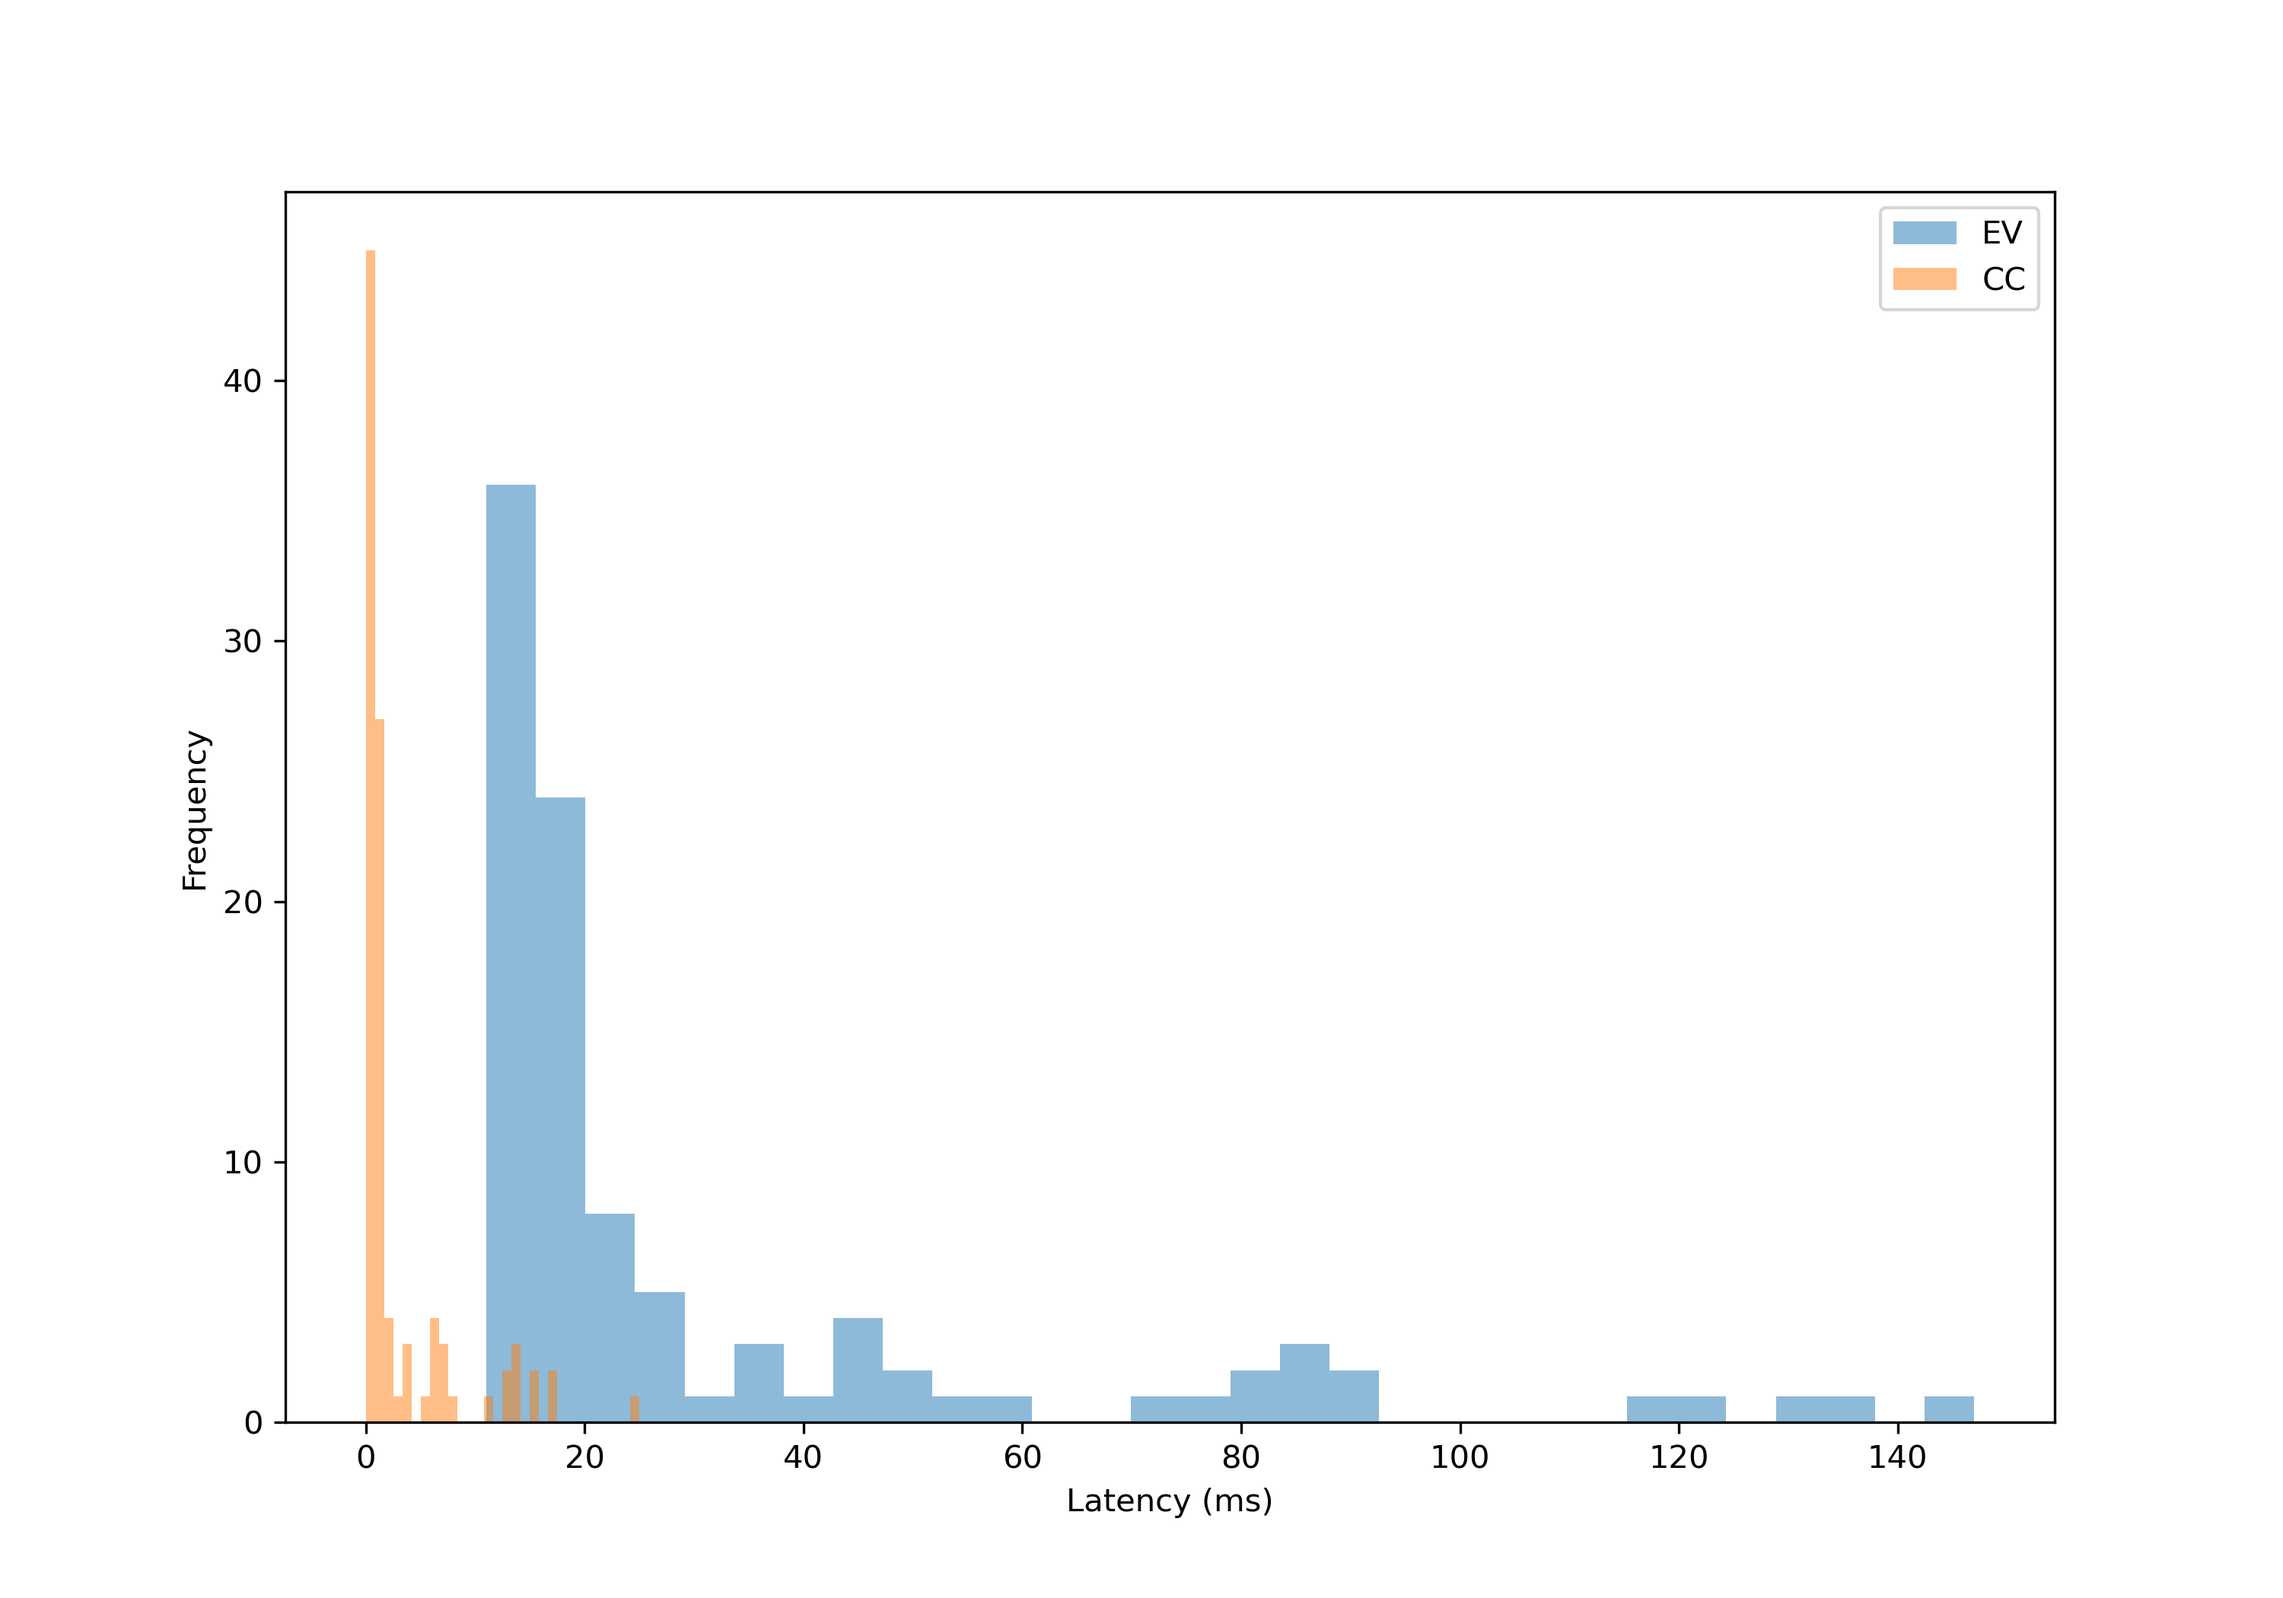
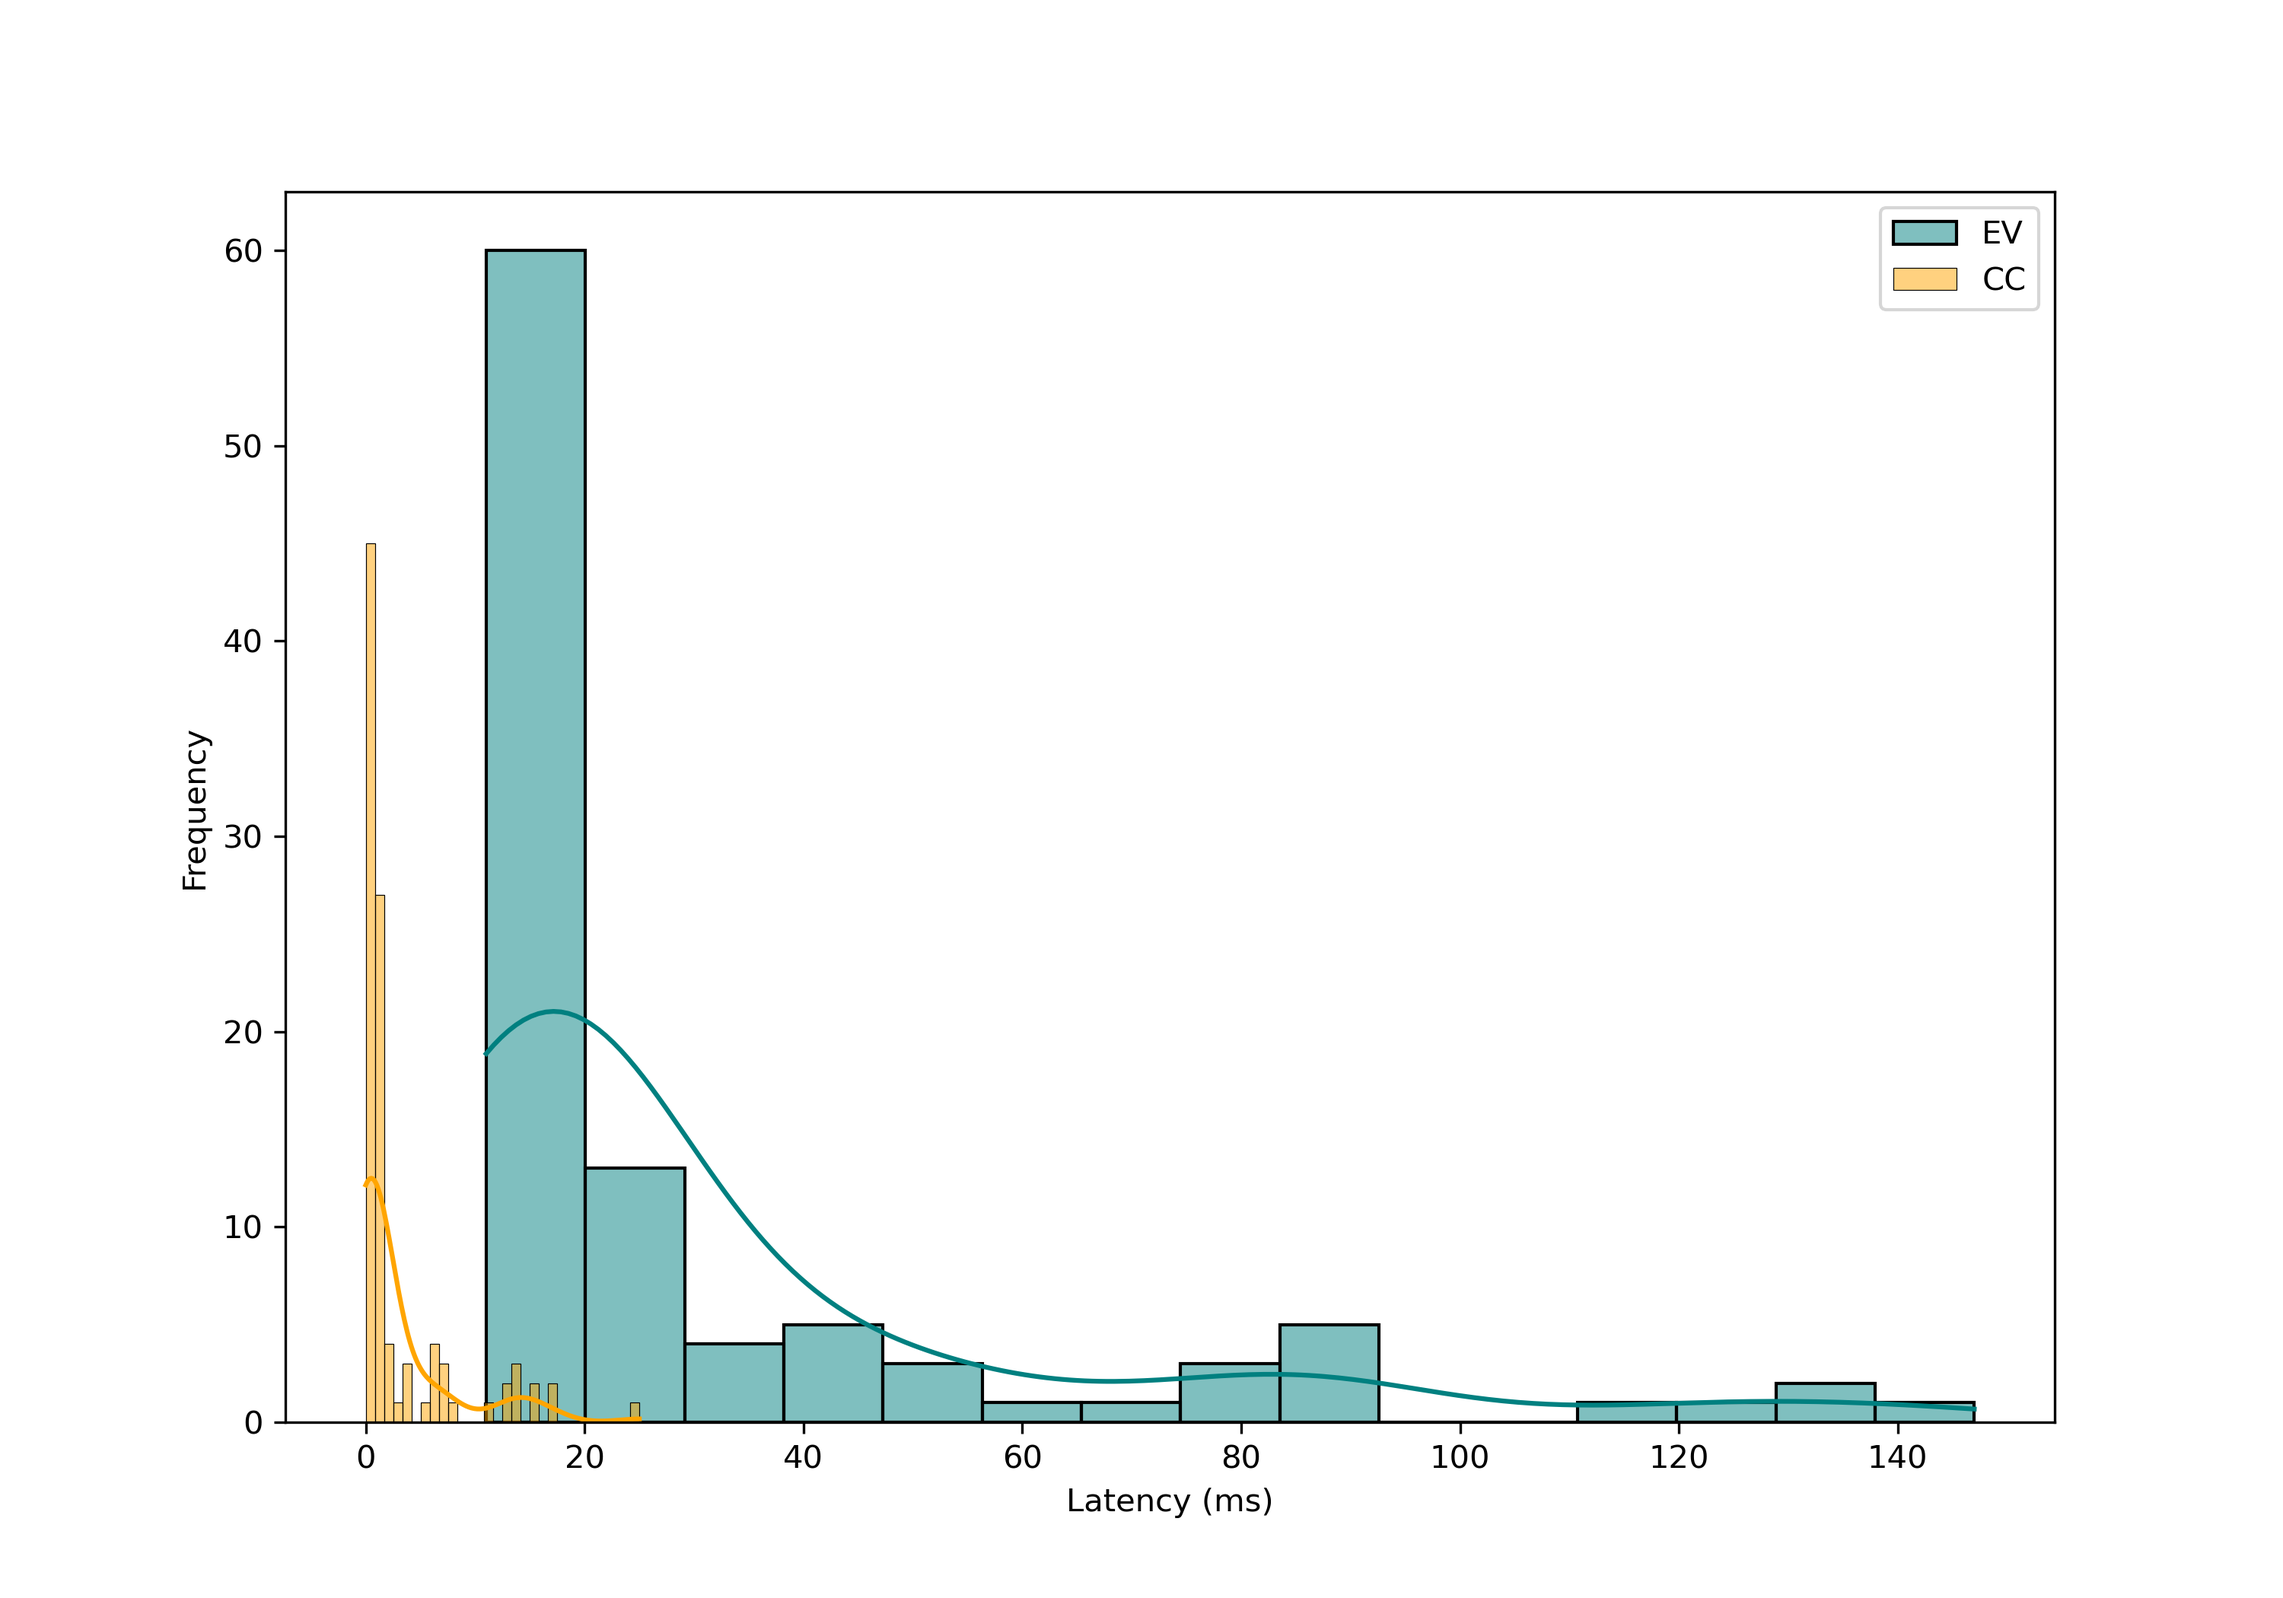
Update latency histogram

diff --git a/validation/latency_validation.py b/validation/latency_validation.py
@@ -1,4 +1,5 @@
 import pandas as pd
+import seaborn as sns
 import matplotlib.pyplot as plt
 from utils import get_data
 import os
@@ -77,8 +78,8 @@ def latency_stats(df_ev_latency, df_cc_latency):
 
 def latency_histogram(df_ev_latency, df_cc_latency):
     plt.figure(figsize=(10, 7))
-    plt.hist(df_ev_latency['latency'], alpha=0.5, bins=30, label='EV')
-    plt.hist(df_cc_latency['latency'], alpha=0.5, bins=30, label='CC')
+    sns.histplot(data=df_ev_latency, x="latency", kde=True, color="teal", label='EV')
+    sns.histplot(data=df_cc_latency, x="latency", kde=True, color="orange", label='CC')
 
     plt.legend(loc='upper right')
     plt.xlabel('Latency (ms)')
@@ -97,4 +98,3 @@ def latency_table(df):
         'mean': [df['latency'].mean()],
         'max': [df['latency'].max()],
         'min': [df['latency'].min()]})
-
